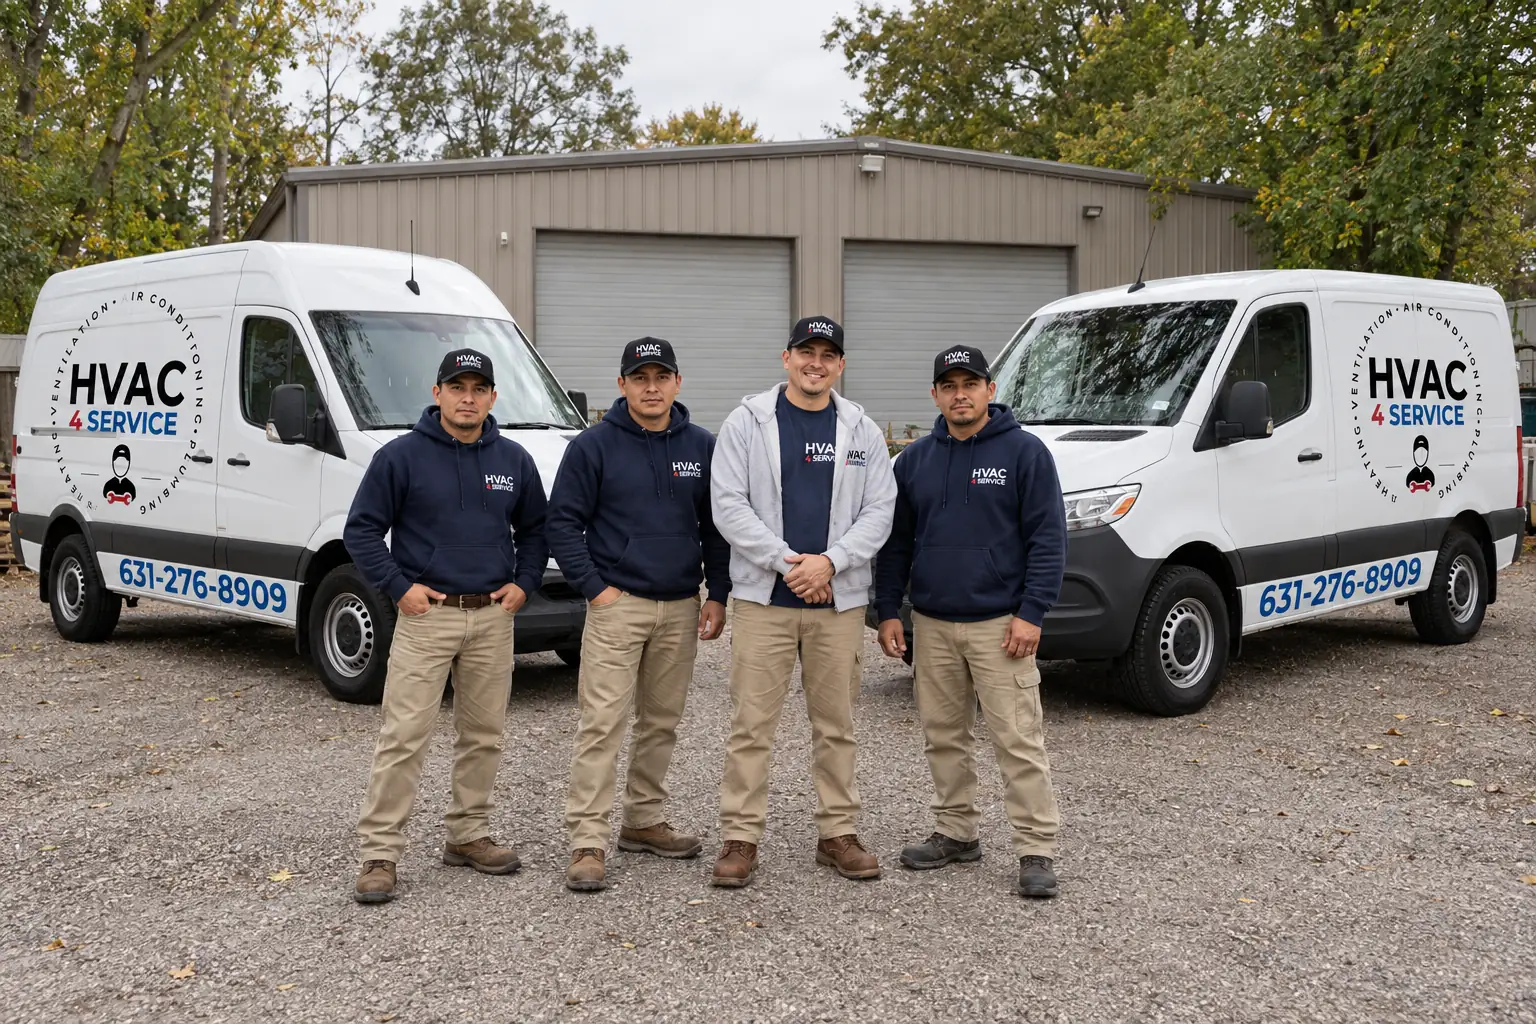
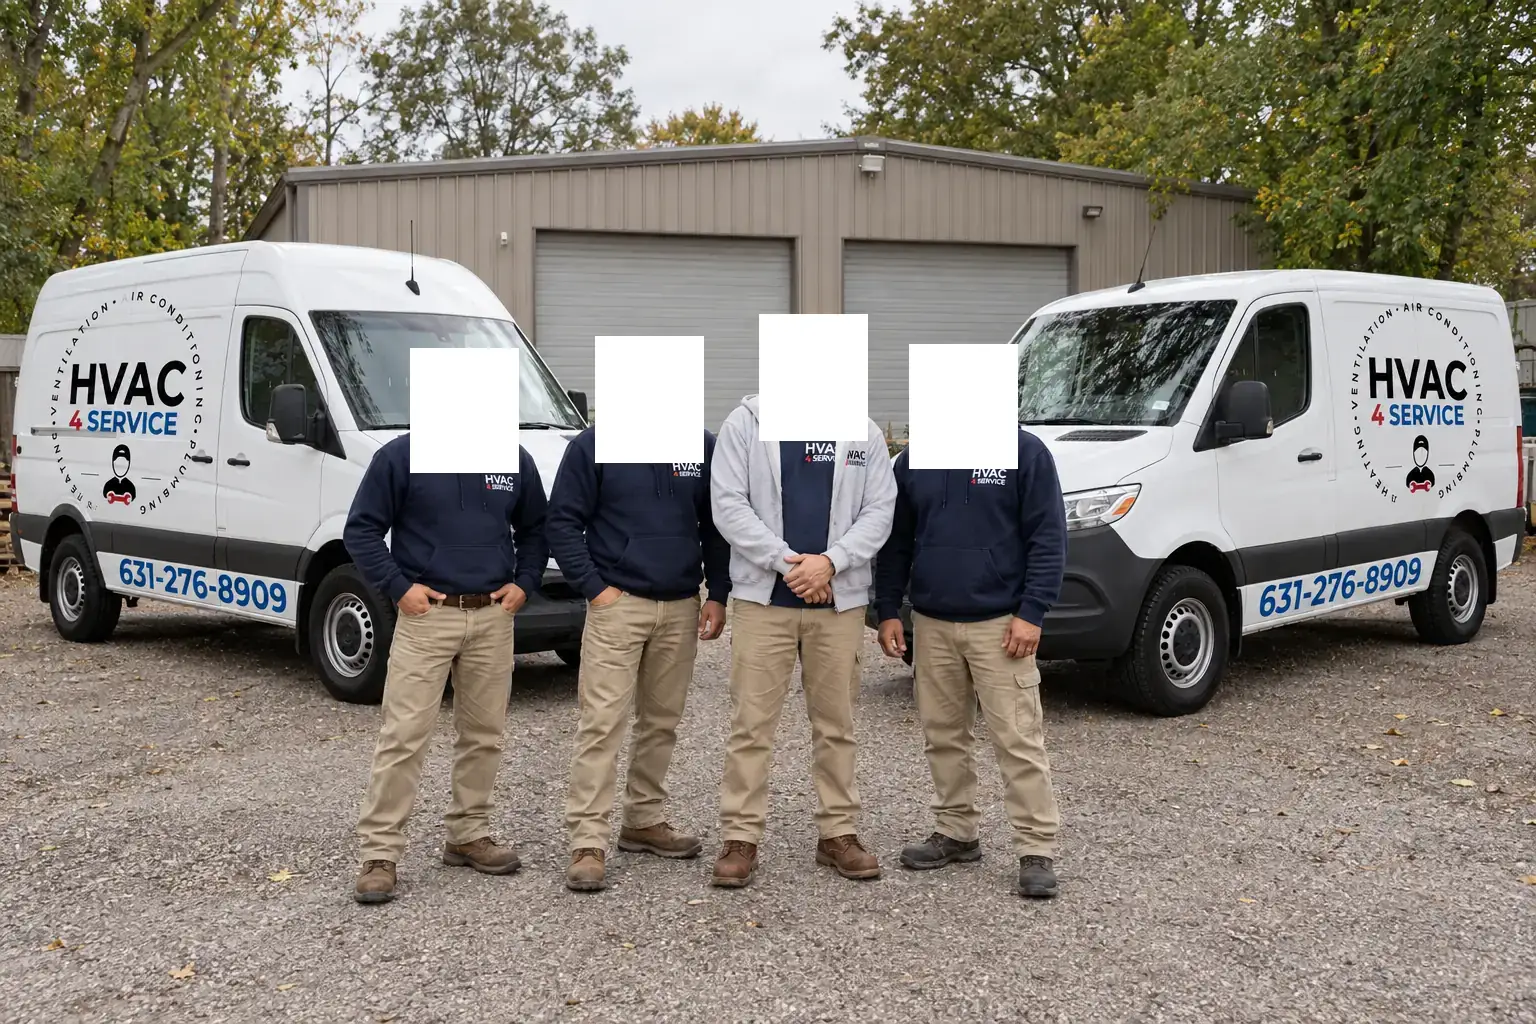
Cover the HVAC hero faces and mark the photo as a placeholder.
Add a white bar across each crew member's face and a small label that the team photo still needs to be shot.

Changed region(s): [[0.375, 0.2812, 0.6875, 0.4688], [0.25, 0.3125, 0.3438, 0.4688]]

diff --git a/hvac4/styles.css b/hvac4/styles.css
@@ -31,11 +31,14 @@ section{padding:64px 0}
 .cta{display:flex;flex-wrap:wrap;gap:10px}
 .hero .cta{justify-content:center;margin-top:18px}
 .stars{display:inline-block;margin-top:22px;text-decoration:none;font-size:1rem}.stars b{color:#c98a00}
-.hero-img{position:relative;margin:0}
+.hero-img{position:relative;margin:0;container-type:inline-size}
+.ph-cap{position:absolute;left:50%;bottom:3.5%;transform:translateX(-50%);display:flex;flex-direction:column;align-items:center;gap:6px;margin:0;max-width:calc(100% - 16px);text-align:center;pointer-events:none}
+.ph-kicker{background:#fff;color:#14213d;font-size:11px;font-weight:700;letter-spacing:.14em;line-height:1;padding:6px 9px}
+.ph-line{background:rgba(255,255,255,.94);color:#3e4654;font-weight:500;line-height:1.2;padding:5px 10px;white-space:nowrap;font-size:clamp(10px,2.2cqi,15px)}
 .rate{display:flex;flex-direction:column;align-items:center;gap:6px;margin:0;text-decoration:none;font-family:inherit;font-weight:500;font-size:16px;line-height:1.2;color:#3e4654}
 .rate .g{color:#e0a106;letter-spacing:.14em;font-size:18px;line-height:1;white-space:nowrap}
 .rate .t{white-space:nowrap;font-weight:500;font-size:16px}
-.hero-img img{width:100%;height:auto;object-fit:contain;object-position:center;border-radius:0}
+.hero-img img{width:100%;height:auto;object-fit:contain;object-position:center;border-radius:0;display:block}
 .ph-note{font-size:.8rem;background:#fff3c4;color:#6b5300;padding:6px 10px;border-radius:4px;margin-top:10px;display:inline-block}
 .strip{background:var(--ink);color:#fff;padding:48px 0 36px}
 .strip h2{font-size:clamp(2rem,5vw,3rem);color:#fff;margin-bottom:20px}

diff --git a/hvac4/index.html b/hvac4/index.html
@@ -20,7 +20,7 @@
 </header>
 <main id="top">
 <section class="hero">
- <figure class="hero-img"><img src="img/team-v2.webp" alt="HVAC 4 Service crew standing in front of two white service vans" width="1536" height="1024"></figure>
+ <figure class="hero-img"><img src="img/team-v2.webp?v=ph" alt="Placeholder team photo of the HVAC 4 crew in front of two white service vans" width="1536" height="1024"><figcaption class="ph-cap"><span class="ph-kicker">PLACEHOLDER TEAM PHOTO</span><span class="ph-line">To be shot: Fabian + crew in matching shirts and hats, in front of the vans.</span></figcaption></figure>
  <div class="wrap hero-copy">
   <h1><span>High-touch HVAC and plumbing,</span><span>exclusively for Hamptons homeowners.</span></h1>
   <a class="rate" href="#reviews"><span class="g" aria-hidden="true">★★★★★</span><span class="t">106 Google reviews · 4.9 stars</span></a>
